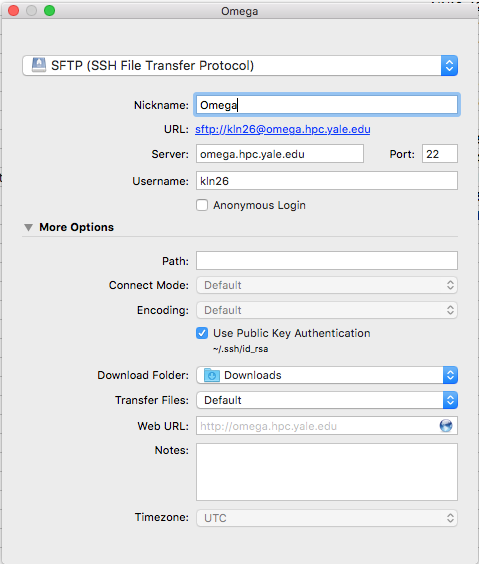
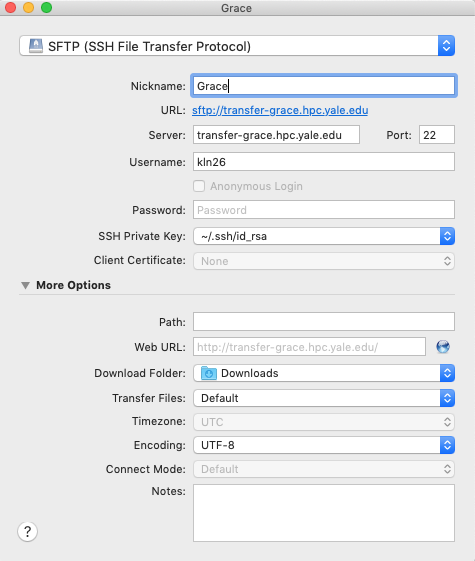
transfer nodes added to transfer docs

diff --git a/docs/clusters-at-yale/data/transfer.md b/docs/clusters-at-yale/data/transfer.md
@@ -2,11 +2,31 @@
 
 Transferring files can be done using several methods. The most common are described below.
 
+## Data Transfer Nodes
+
+Each cluster (except for Milgram) has a dedicated "data transfer" node that is specially networked for high speed transfers both on and off-campus using the Yale Science Network. These transfer nodes are also the hosts of our [Globus service](#large-transfers-globus), which enables resilient transfers of large amounts of data. From the login node of a cluster, you can ssh to the transfer node:
+
+```
+ssh transfer
+```
+
+If you are initiating a longer running transfer and are not using [Globus](#large-transfers-globus), you can initiate the transfer in a [tmux](/clusters-at-yale/guides/tmux/) session to protect against network interruptions.
+
+You may also use the transfer node to transfer data from your local machine using one of the below methods. From off-cluster, the nodes are accessible at the following hostnames. Note that you still must be on-campus or the [VPN](/clusters-at-yale/access/vpn/) to access the transfer nodes.
+
+| Cluster   | Transfer Node                          |
+|-----------|----------------------------------------|
+| Grace     | `transfer-grace.hpc.yale.edu`          |
+| Farnam    | `transfer-farnam.hpc.yale.edu`         |
+| Ruddle    | `transfer-ruddle.hpc.yale.edu`         |
+| Omega     | `transfer-omega.hpc.yale.edu`          |
+| Milgram   | use login node: `milgram.hpc.yale.edu` |
+
 ## scp/rsync (macOS/Linux only)
 
-Linux and Apple macOS users can use [scp](https://linux.die.net/man/1/scp) or [rsync](http://linux.die.net/man/1/rsync) to transfer files to/from a cluster. You will need the hostname of the [cluster login nodes](/clusters-at-yale/clusters) to transfer files.
+Linux and Apple macOS users can use [scp](https://linux.die.net/man/1/scp) or [rsync](http://linux.die.net/man/1/rsync) to transfer files to/from a cluster. You will need the hostname of the cluster transfer node (see above) to transfer files.
 
-Note that you must have your ssh keys properly configured to use the commands outlined below. See the [Cluster Access documentation](/clusters-at-yale/access) for more info.
+Note that you must have your ssh keys properly setup to use the commands outlined below. See the [Cluster Access documentation](/clusters-at-yale/access) for more info.
 
 scp and sftp are both used from a Terminal window. The basic syntax of `scp` is
 
@@ -14,26 +34,26 @@ scp and sftp are both used from a Terminal window. The basic syntax of `scp` is
 scp [from] [to]
 ```
 
-The “from” portion can be a filename or a directory/folder. The “to” portion will contain your netid, the hostname of the cluster login node, and the destination directory/folder.
+The “from” portion can be a filename or a directory/folder. The “to” portion will contain your netid, the hostname of the cluster transfer node (or login node for Milgram), and the destination directory/folder.
 
 ### Transfer a File from Your Computer to a Cluster
 
 Assuming the user’s netid is `ra359`, the following is run on your computer's local terminal.
 
 ```
-scp myfile.txt ra359@grace.hpc.yale.edu:/home/fas/admins/ra359/test
+scp myfile.txt ra359@transfer-grace.hpc.yale.edu:/home/fas/admins/ra359/test
 ```
 
 In this example, `myfile.txt` is copied to the directory `/home/fas/admins/ra359/test:` on Grace. This example assumes that `myfile.txt` is in your current directory. You may also specify the full path of `myfile.txt`.
 
 ```
-scp /home/xyz/myfile.txt ra359@grace.hpc.yale.edu:/home/fas/admins/ra359/test
+scp /home/xyz/myfile.txt ra359@transfer-grace.hpc.yale.edu:/home/fas/admins/ra359/test
 ```
 
 ### Transfer a Directory to a Cluster
 
 ```
-scp -r mydirectory ra359@grace.hpc.yale.edu:/home/fas/admins/ra359/test
+scp -r mydirectory ra359@transfer-grace.hpc.yale.edu:/home/fas/admins/ra359/test
 ```
 
 In this example, the contents of `mydirectory` are transferred. The `-r` indicates that the copy is recursive.
@@ -43,19 +63,19 @@ In this example, the contents of `mydirectory` are transferred. The `-r` indicat
 Assuming you would like the files copied to your current directory:
 
 ```
-scp ra359@grace.hpc.yale.edu:/home/fas/admins/ra359/myfile.txt .
+scp ra359@transfer-grace.hpc.yale.edu:/home/fas/admins/ra359/myfile.txt .
 ```
 
 Note that `.` represents your current working directory.
 To specify the destination, simply replace the `.` with the full path:
 
 ```
-scp ra359@grace.hpc.yale.edu:/home/fas/admins/ra359/myfile.txt /path/myfolder
+scp ra359@transfer-grace.hpc.yale.edu:/home/fas/admins/ra359/myfile.txt /path/myfolder
 ```
 
 ## FTP Client
 
-You can also transfer files between your local computer and a cluster using an FTP client, such as [Cyberduck (OSX/Windows)](https://cyberduck.io/) or [FileZilla (Linux)](https://filezilla-project.org/). You will need to configure the client with your netid as the username, the cluster login node as the hostname and your private key as the authentication method. An example configuration of Cyberduck is shown below.
+You can also transfer files between your local computer and a cluster using an FTP client, such as [Cyberduck (OSX/Windows)](https://cyberduck.io/) or [FileZilla (Linux)](https://filezilla-project.org/). You will need to configure the client with your netid as the username, the cluster transfer node as the hostname and your private key as the authentication method. An example configuration of Cyberduck is shown below.
 
 ![Cyberduck sample configuration.](/img/cyberduck.png)
 
@@ -73,22 +93,23 @@ Then once you establish your connection, you will prompted with a "Partial authe
 
 ## Object Storage Transfers
 
-To move data to and from object stores such as AWS S3, or GCP cloud storage, we recommend using rclone. It is installed as 
-a module on all of the clusters.  You can use to to copy files, sync directories, etc.  See <http://rclone.org>
+To move data to and from object stores such as AWS S3, or GCP cloud storage, we recommend using rclone. It is installed as a module on all of the clusters.  You can use to to copy files, sync directories, etc.  See <http://rclone.org>
 
 To begin, configure a connection by running
-```
+
+```bash
 rclone configure
 ```
-You'll be prompted for a name for the connection (e.g mys3), and then details about the connection.  Once you've saved that 
-configuration, you can use that connection name to copy files:
-```
+
+You'll be prompted for a name for the connection (e.g mys3), and then details about the connection.  Once you've saved that configuration, you can use that connection name to copy files:
+
+```bash
 rclone copy localpath/myfile mys3:bucketname/
 rclone sync localpath/mydir mys3:bucketname/remotedir
 ```
 
 We recommend that you protect your configurations with a password.  You'll see that as an option when you run rclone config.
-  
+
 ## Large Transfers (Globus)
 
 For larger transfers both within Yale and to external collaborators, we recommend using Globus. Globus is a file transfer service that is efficient and easy to use. It has several advantages:
@@ -103,26 +124,28 @@ We have set up Globus endpoints on most of the Yale clusters. Globus uses gridft
 
 ### Get Started with Globus
 
-1.  In a browser, go to www.globus.org.
-1.  Click on "Login".
-1.  Use the pulldown to select Yale in the list of organizations and click "Continue".
-1.  If you are not already logged into CAS, you will be asked for netid and password.
-1.  You'll see a transfer panel with dual panes. Enter an endpoint name in the left endpoint box, e.g. yale#grace.
-1.  The file browser will show you the directories in the root directory that Globus is exporting, normally /
-1.  Browse to any directory you can normally access, such as your home directory.
-1.  Enter another endpoint name in the right endpoint box, and browse to your chosen directory.
-1.  Select one or more files in either the left or right box, and click the < or > button to transfer the files in that direction.
+1. In a browser, go to www.globus.org.
+1. Click on "Login".
+1. Use the pulldown to select Yale in the list of organizations and click "Continue".
+1. If you are not already logged into CAS, you will be asked for netid and password.
+1. You'll see a transfer panel with dual panes. Enter an endpoint name in the left endpoint box, e.g. yale#grace.
+1. The file browser will show you the directories in the root directory that Globus is exporting, normally /
+1. Browse to any directory you can normally access, such as your home directory.
+1. Enter another endpoint name in the right endpoint box, and browse to your chosen directory.
+1. Select one or more files in either the left or right box, and click the < or > button to transfer the files in that direction.
 
 For more information, see the [official Globus Documentation](https://docs.globus.org).
 
-#### Cluster Endpoints
+### Cluster Endpoints
 
-We currently support endpoints for the following clusters
+We currently support endpoints for the following clusters.
 
-* Grace: `yale#grace`
-* Farnam: `yale#farnam`
-* Omega: `yale#omega`
-* Ruddle: `yale#ruddle`
+| Cluster   | Globus Endpoint       |
+|-----------|-----------------------|
+| Grace     | `yale#grace`          |
+| Farnam    | `yale#farnam`         |
+| Ruddle    | `yale#ruddle`         |
+| Omega     | `yale#omega`          |
 
 All of these endpoints provide access to all files you normally have access to, except sequencing data on Ruddle.
 
